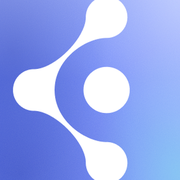
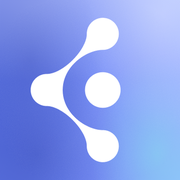
홈 화면 아이콘 잘림 수정, 하단 검은 바(홈 인디케이터) 제거
Claude-Session: https://claude.ai/code/session_01CQujdFyja6aqkNEBx4wamv

Changed region(s): [[0.0556, 0.0, 0.7222, 1.0], [0.4444, 0.3611, 0.7222, 0.6389]]

diff --git a/src/template.html b/src/template.html
@@ -40,7 +40,6 @@ input,select,textarea{font:inherit;color:inherit;letter-spacing:inherit}
 .sb{position:absolute;left:0;top:0;width:100%;height:59px;z-index:30;display:flex;align-items:center;justify-content:space-between;padding:6px 32px 0 40px;pointer-events:none;color:#000;font-weight:600;font-size:17px}
 .sb .r{display:flex;gap:7px;align-items:center}
 .island{position:absolute;left:134px;top:11px;width:125px;height:37px;border-radius:99px;background:#000;z-index:31}
-.hi{position:absolute;left:125px;bottom:8px;width:144px;height:5px;border-radius:99px;background:#000;z-index:30;pointer-events:none}
 
 /* ===== 공통 ===== */
 .i{display:inline-block;flex:none;vertical-align:middle}
@@ -675,7 +674,6 @@ textarea.memo::placeholder{color:var(--i5)}
     <div class="sheet" id="sheet"></div>
     <div class="push" id="push"></div>
     <div class="toast" id="toast"></div>
-    <div class="hi"></div>
   </div></div>
   <aside class="demo" id="demo"></aside>
 </div>
